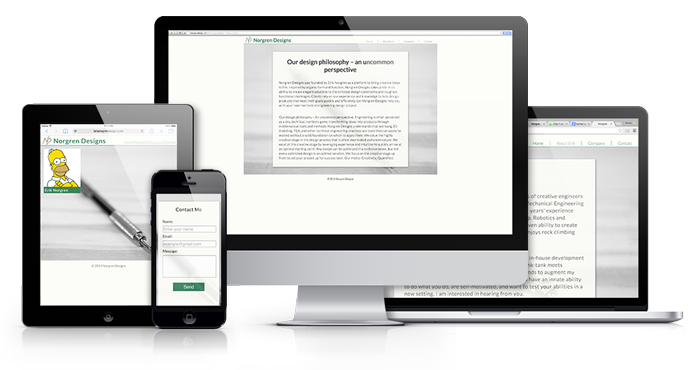
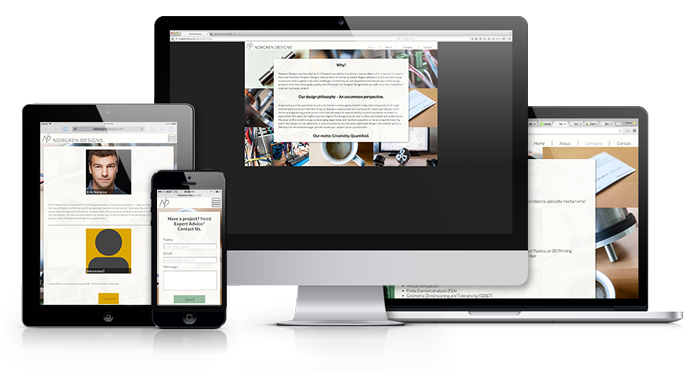
Updated images, content within the norgren design template.

diff --git a/js/model.script.js b/js/model.script.js
@@ -14,8 +14,8 @@ var model = (function() {
     id: "norgren-design",
     imgId: "nd-modal-img",
     title: "Norgren Design",
-    content: "A scalable portfolio site built for a Mechanical Engineering venture by Erik Norgren. Erik is recruiting for his design firm, and wanted the ability to engage potential business partners using a connect feature. The page's content is being propagated using json, which is being passed down into a single page application built using javascript and jquery. Erik is a good friend of mine, and he wants the ability to add features to the site, so I've set this project up with easy updating via feature modules. This site is fully responsive.",
-    tools: ["html", "css", "javascript/jQuery", ""],
+    content: "A scalable portfolio site built for a Mechanical Engineering venture by Erik Norgren. Erik is recruiting for his design firm, and wanted the ability to engage potential business partners using a connect feature. The page's content is stored as json data, and passed down into a single page application. Form validation and content templates all handled using Angular's extensible framework.",
+    tools: ["css3", "json", "javascript/jQuery", "Angular JS"],
     browsers: ["Chrome 44/Mac OS X 10.10", "Firefox 39/Mac OS X 10.10", "Safari 8/Mac OS X 10.10"],
     links: ["http://www.brianwynndesign.com/sites/norgrendesign/", "https://github.com/bwynn/Norgren-Designs"]
   };

diff --git a/css/style.css b/css/style.css
@@ -449,7 +449,6 @@ figure#sandbox-modal-img.modal-img {
   padding-left: 0;
 }
 
-#norgren-design .project-containers section.tools > ul > li:last-child,
 #southwest .project-containers section.tools > ul > li:last-child  {
   display: none;
 }
